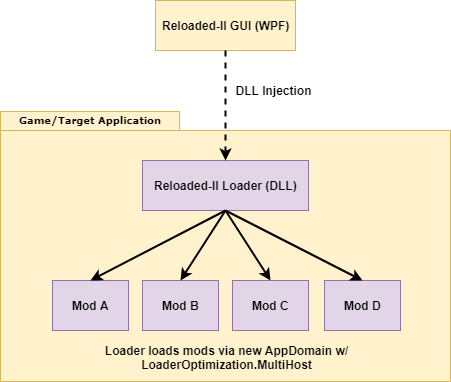
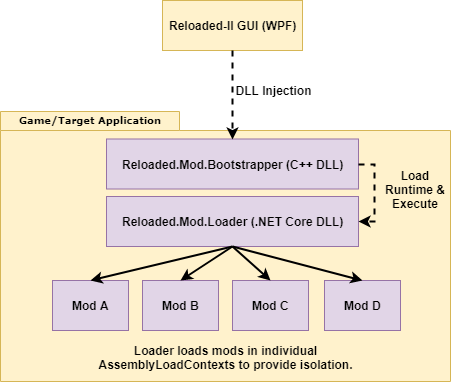
Update Reloaded-II Architecture Document

diff --git a/Docs/Reloaded-II-Architecture.md b/Docs/Reloaded-II-Architecture.md
@@ -39,9 +39,8 @@ The Loader application would then also act as a local server that can be used fo
 
 - *Reloaded Mod DLLs supported by other mod loaders.*
   - Because of AppDomain plumbing code (see below) and use of DLL Exports.
-  - On the flipside developer must either export `DllMain` or mod loader must know to run the exported `Main` method.
-- Reloaded-II will support an `Inversion of Control`. A DLL is planned to be available that will locate and load `Reloaded's` loader DLL. Thus loading Reloaded from other mod loaders.
-  
+  - On the flipside developer must either export make their own C++ bootstrapper and export `DllMain`  or mod loader must know to run the exported `Main` method.
+  - Reloaded-II can also be bootstrapped via the "DLL Loader" method to be executed by other loaders itself, nullifying this point entirely.
 - *Support of DLLs programmed in arbitrary Native/Managed programming languages* (provided DLL exports are supported).
   - In theory there is no reason that Reloaded II's architecture couldn't support native DLLs. Only catch is that it will have to distinguish them from .NET ones so a bit more code.
 
@@ -69,15 +68,15 @@ The Loader application would then also act as a local server that can be used fo
 
 In the case of Reloaded II, things change considerably as there is only one standalone application, the WPF Graphical User Interface.
 
-What instead happens is that rather than the Launcher running the Loader as a separate standalone application, the loader instead ships in the form of an injectable DLL with various DLL exports. In this case the actual loader itself is injected into the target application, which will in turn initialize and load successive mods using the native .NET APIs.
+What instead happens is that rather than the Launcher running the Loader as a separate standalone application, the loader instead ships in the form of an injectable DLL. In this case the actual loader itself is injected into the target application, which will in turn initialize and load successive mods using the native .NET APIs.
 
 Once Reloaded is injected, the WPF Graphical User Interface (as well as other programs) can check if Reloaded is present by looking in the modules list of the target. If the Reloaded DLL is there, it can be assumed mods are loaded. 
 
 ### Interacting with Reloaded II
 
-Injected Reloaded inside the target process can be interacted by executing functions remotely from the WPF GUI `(CreateRemoteThread)`, with memory writes used to pass parameters and return values. (This allows us to pass structs etc.)
+Injected Reloaded inside the target process hosts a local UDP server which can easily be interacted with by connecting. As opposed to having a one server and then a client for every single loaded mod, there is only one server (and one client if the Launcher is connected).
 
-`Reloaded.Injector` already provides the function call and parameter pass functionality. It uses `Reloaded.Memory`'s `CircularBuffer`  class as the backing storage to pass parameters. Injected Reloaded would also maintain its own `CircularBuffer` used for writing return values to process memory efficiently.
+Having to create only one host significantly reduces startup time.
 
 ### Reloaded II vs Reloaded I 
 
